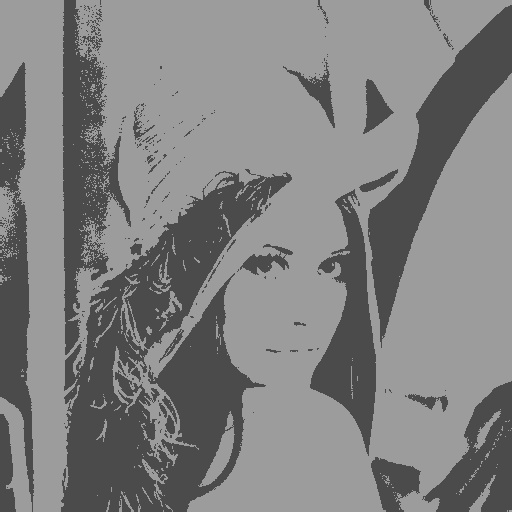
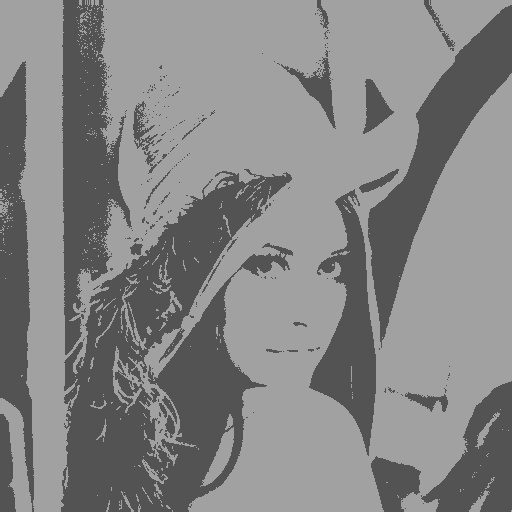
task 1 completely finished

diff --git a/project3/task1.py b/project3/task1.py
@@ -38,52 +38,103 @@ def kmeans(img, k):
     best_img_labels = np.empty_like(img)
     min_error = rows*columns*256
 
-    iterations = 1000
-    for iteration in range(iterations):
-        # Randomly choose k-centers
-        # Initialize centers in range [0,255]
-        center_pts = np.random.choice(np.arange(256, dtype=float), k, replace=False)
-        while True:
-            # Calculate all the errors
-            img_errors = np.empty((rows, columns, k), dtype=float)
-            for i in range(k):
-                img_errors[:, :, i] = np.abs(img - center_pts[i])
-
-            # Calculate image labels
-            img_label = np.argmin(img_errors, axis=2)
-
-            # Calculate total error
-            error = np.sum(np.min(img_errors, axis=2))
-
-            if error < min_error:
-                best_center_pts = center_pts
-                min_error = error
-                best_img_labels = img_label
-
-            # Calculate new center point (center of the labeled groups)
-            new_center_pts = np.zeros_like(center_pts, dtype=float)
-            for i in range(k):
-                if np.all(img_label != i):
-                    # If one of the centers has no pixels in it
-                    new_center_pts[i] = center_pts[i]
-                    # print('here')
+    if k == 2:
+        center_pairs = []
+        possible_center_points = np.unique(img)
+        for i in range(len(possible_center_points)):
+            for j in range(i+1, len(possible_center_points)):
+                if i == j:
                     continue
-                new_center_pts[i] = np.around(np.mean(img[img_label == i]))
+                center_pairs.append([possible_center_points[i], possible_center_points[j]])
 
-            # Need to check for Nan (meaning a group does not have any pixels)
-            # print(new_center_pts)
-            # if np.any(new_center_pts == np.nan):
-            #     print('!!! center point has no pixels !!!')
-            #     break
+        # run through all possible initializations
+        for i, center_pts in enumerate(center_pairs):
+            if i % int(len(center_pairs)/10) == 0:
+                print('{}% complete'.format(round(i/len(center_pairs)*100)))
 
-            # Iterate until the the centers do not change
-            if np.all(new_center_pts == center_pts):
-                break
-            else:
-                center_pts = new_center_pts
+            new_center_pts = np.empty_like(center_pts, dtype=float)
+            while True:
+                # Calculate all the errors
+                img_errors = np.empty((rows, columns, 2), dtype=float)
+                img_errors[:, :, 0] = np.abs(img - center_pts[0])
+                img_errors[:, :, 1] = np.abs(img - center_pts[1])
 
-    # return clustering center values, clustering labels of all pixels, the total sum of the centers to each pixel
-    return [int(c) for c in best_center_pts], best_img_labels, int(min_error)
+                # Calculate image labels
+                img_label = np.argmin(img_errors, axis=2)
+
+                # Calculate total error
+                error = np.sum(np.min(img_errors, axis=2))
+
+                if error < min_error:
+                    best_center_pts = center_pts
+                    min_error = error
+                    # print(min_error)
+                    best_img_labels = img_label
+
+                # Calculate new center point (center of the labeled groups)
+                if np.all(img_label != 0):
+                    # If one of the centers has no pixels in it
+                    new_center_pts[0] = center_pts[0]
+                    new_center_pts[1] = np.around(np.mean(img[img_label == 1]))
+                elif np.all(img_label != 1):
+                    new_center_pts[1] = center_pts[1]
+                    new_center_pts[0] = np.around(np.mean(img[img_label == 0]))
+                else:
+                    new_center_pts[0] = np.around(np.mean(img[img_label == 0]))
+                    new_center_pts[1] = np.around(np.mean(img[img_label == 1]))
+
+                # Iterate until the the centers do not change
+                if np.all(new_center_pts == center_pts):
+                    break
+                else:
+                    center_pts = new_center_pts
+
+        # return center values, center labels of all pixels, the total sum of the distance of center to its pixel
+        return [int(c) for c in best_center_pts], best_img_labels, int(min_error)
+
+    else:
+        iterations = 10
+        for iteration in range(iterations):
+            if iteration % int(iterations/10) == 0:
+                print('{}% complete'.format(round(iteration / iterations * 100)))
+            # Randomly choose k-centers
+            # Initialize centers in range [0,255]
+            center_pts = np.random.choice(np.arange(256, dtype=float), k, replace=False)
+            while True:
+                # Calculate all the errors
+                img_errors = np.empty((rows, columns, k), dtype=float)
+                for i in range(k):
+                    img_errors[:, :, i] = np.abs(img - center_pts[i])
+
+                # Calculate image labels
+                img_label = np.argmin(img_errors, axis=2)
+
+                # Calculate total error
+                error = np.sum(np.min(img_errors, axis=2))
+
+                if error < min_error:
+                    best_center_pts = center_pts
+                    min_error = error
+                    # print(min_error)
+                    best_img_labels = img_label
+
+                # Calculate new center point (center of the labeled groups)
+                new_center_pts = np.zeros_like(center_pts, dtype=float)
+                for i in range(k):
+                    if np.all(img_label != i):
+                        # If one of the centers has no pixels in it
+                        new_center_pts[i] = center_pts[i]
+                        continue
+                    new_center_pts[i] = np.around(np.mean(img[img_label == i]))
+
+                # Iterate until the the centers do not change
+                if np.all(new_center_pts == center_pts):
+                    break
+                else:
+                    center_pts = new_center_pts
+
+        # return center values, center labels of all pixels, the total sum of the distance of center to its pixel
+        return [int(c) for c in best_center_pts], best_img_labels, int(min_error)
 
 
 def visualize(centers,labels):
@@ -114,7 +165,6 @@ if __name__ == "__main__":
     running_time = end_time - start_time
     print(running_time)
 
-    print('centers: {}'.format(centers))
     centers = list(centers)
     with open('results/task1.json', "w") as jsonFile:
         jsonFile.write(json.dumps({"centers":centers, "distance":sumdistance, "time":running_time}))

diff --git a/project3/task2.py b/project3/task2.py
@@ -36,6 +36,10 @@ def median_filter(img):
         for j in range(pad, columns - pad):
             out_img[i-pad, j-pad] = np.median(padded_img[i-pad:i+pad+1, j-pad:j+pad+1])
             # print(np.sort(padded_img[i-pad:i+pad+1, j-pad:j+pad]))
+
+
+
+
     return out_img
 
 def mse(img1, img2):
